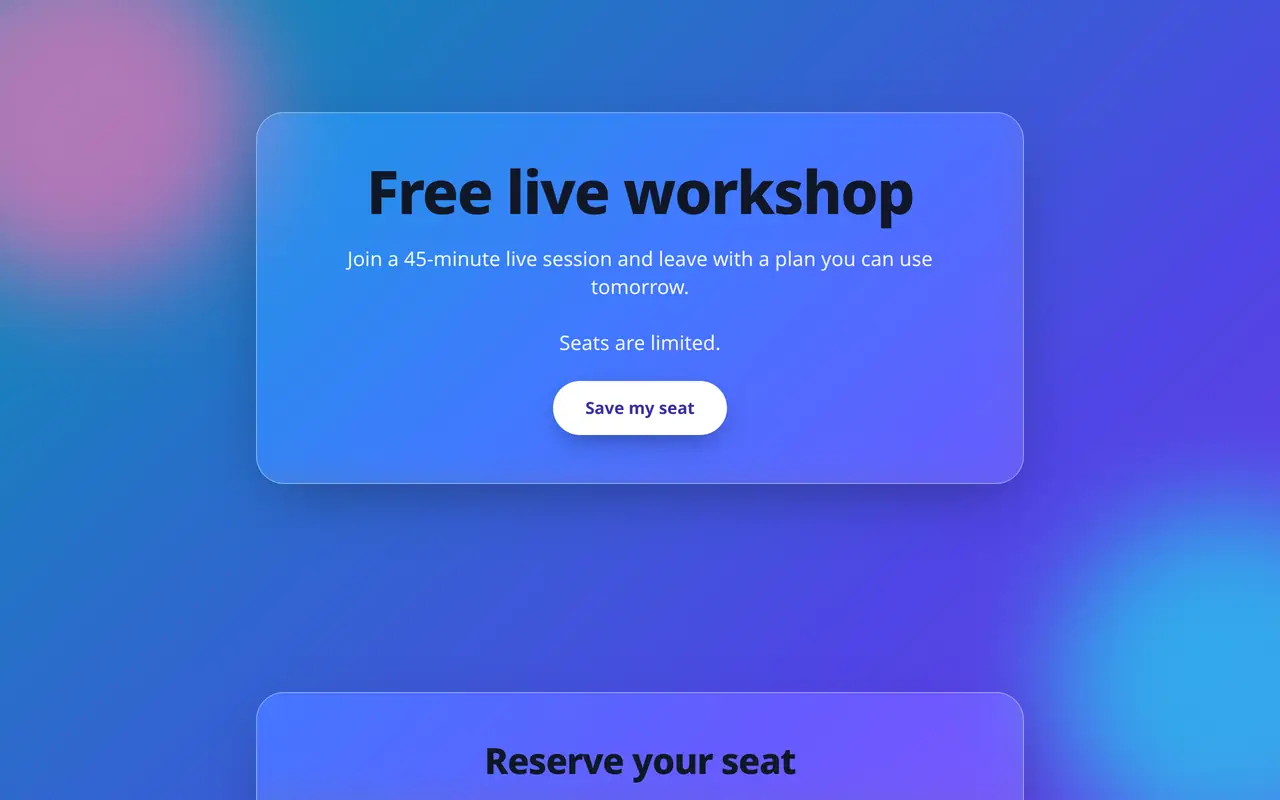
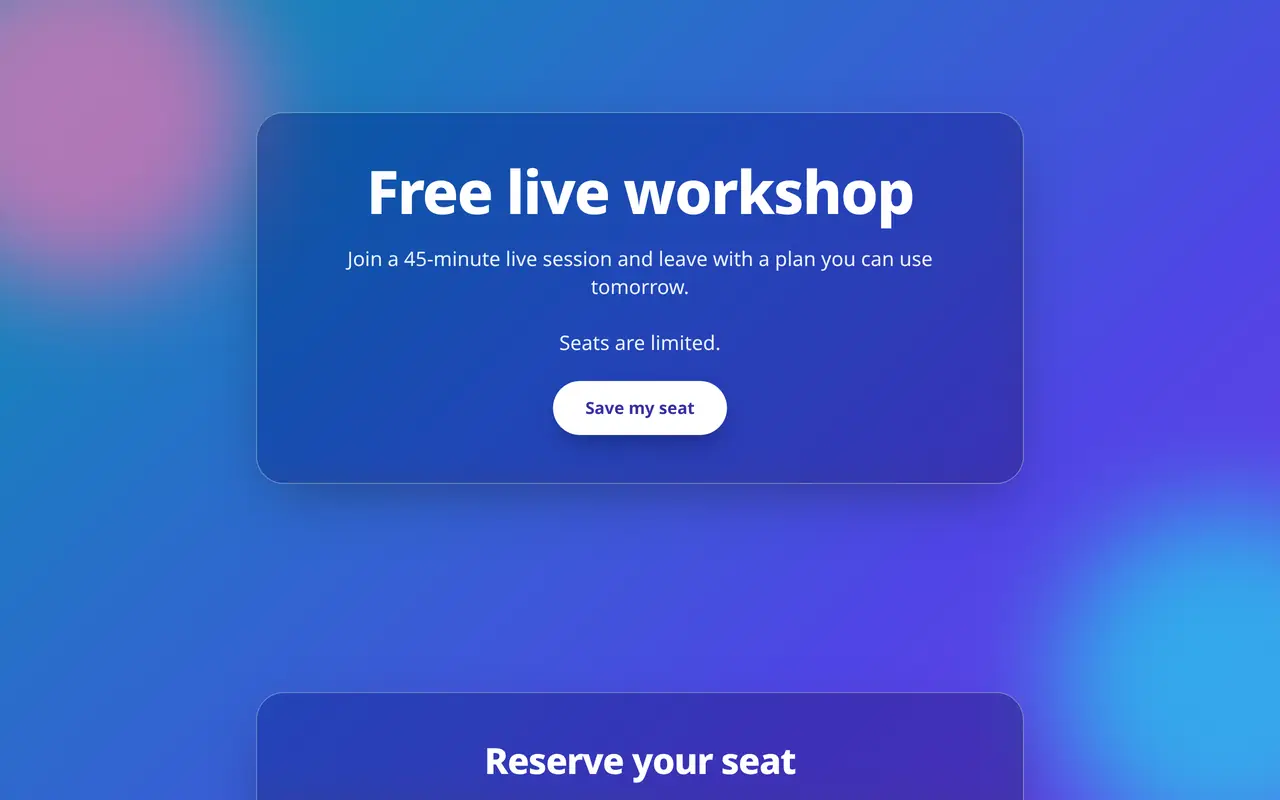
Glass webinar: white headings on a darker frost so all three headings pass 4.5:1; regenerate its previews (#106)

diff --git a/app/globals.css b/app/globals.css
@@ -233,6 +233,8 @@
    Without these, the island rule above and the noir gray remap win, so headings came out dark-on-dark or white-on-white. */
 .noir .fm-theme.text-white { color: #fff; }
 .noir .fm-theme.text-gray-900 { color: #111827; }
+/* Glass is not in the renderer's DARK list (root gets text-gray-900), but its cards sit on a blue/purple gradient: keep its text white like the body copy. */
+.fm-theme.fm-theme-glass.text-gray-900 { color: #fff; }
 .light-surface .bg-app {
   background:
     radial-gradient(60rem 30rem at 0% -10%, rgba(124,58,237,.10), transparent 60%),
@@ -329,7 +331,7 @@
 .fm-glass-blobs span:nth-child(3) { background: #facc15; bottom: -6rem; left: 20%; animation-delay: -10s; opacity: .45; }
 @keyframes blob { 0%,100% { transform: translate(0,0) scale(1); } 50% { transform: translate(3rem,2rem) scale(1.15); } }
 .fm-glass-card {
-  padding: 2rem 1.25rem; border-radius: 1.75rem; background: rgba(255,255,255,.14);
+  padding: 2rem 1.25rem; border-radius: 1.75rem; background: rgba(30,27,75,.4); /* dark frost so white text stays >= 4.5:1 over the bright blobs */
   border: 1px solid rgba(255,255,255,.35); box-shadow: 0 20px 60px -20px rgba(15,23,42,.5);
   backdrop-filter: blur(18px) saturate(140%); -webkit-backdrop-filter: blur(18px) saturate(140%);
 }
